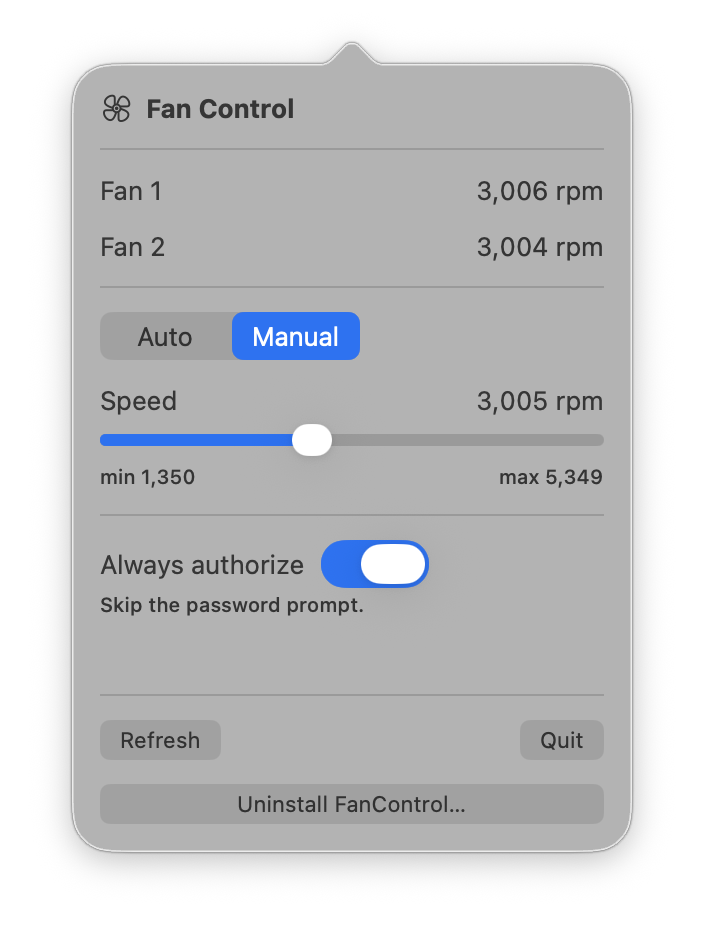
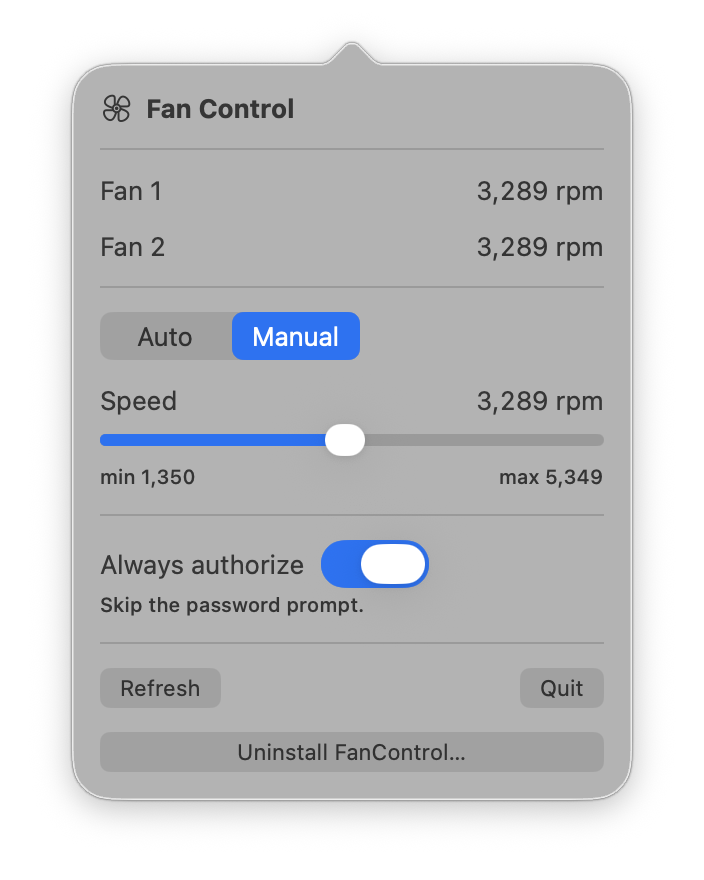
Tidy popover: show status line only when needed; refresh screenshot
Removes the empty reserved status band between 'Always authorize' and the
action buttons (no longer needed now the popover is .applicationDefined).

diff --git a/Sources/FanControlApp/main.swift b/Sources/FanControlApp/main.swift
@@ -308,15 +308,15 @@ struct FanView: View {
             }
             .disabled(!model.hasFans)
 
-            // Always present with a fixed height: a status line that appears
-            // and disappears would resize the view, and NSPopover clips/shifts
-            // its content whenever the hosting view changes size.
-            Text(model.status)
-                .font(.caption2)
-                .foregroundStyle(.red)
-                .lineLimit(1)
-                .truncationMode(.tail)
-                .frame(maxWidth: .infinity, minHeight: 14, alignment: .leading)
+            // Shown only when there's something to report. The popover is
+            // .applicationDefined, so it resizes cleanly when this appears.
+            if !model.status.isEmpty {
+                Text(model.status)
+                    .font(.caption2)
+                    .foregroundStyle(.red)
+                    .lineLimit(2)
+                    .frame(maxWidth: .infinity, alignment: .leading)
+            }
 
             Divider()
             HStack {